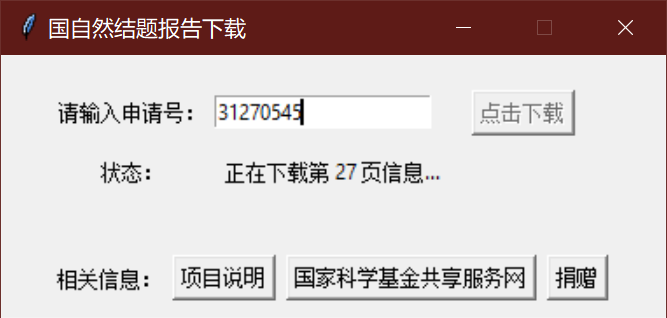
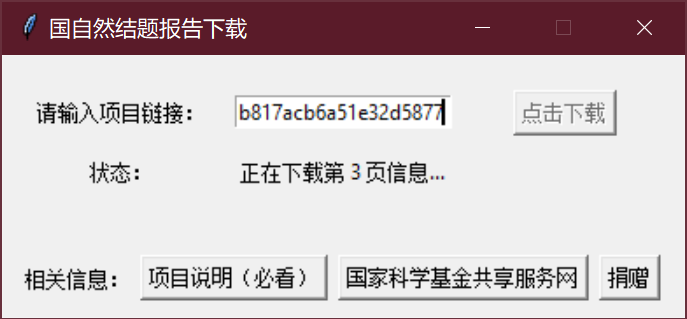
修复页面改版
closed: https://github.com/Rhilip/NSFC_conclusion_downloader/issues/18

diff --git a/nsfc_downloader.py b/nsfc_downloader.py
@@ -10,13 +10,15 @@ import requests
 __VERSION__ = 'v0.1.0'
 __AUTHOR__ = 'Rhilip'
 
+USER_AGENT = 'Mozilla/5.0 (Windows NT 10.0; Win64; x64) AppleWebKit/537.36 (KHTML, like Gecko) Chrome/87.0.4280.88 Safari/537.36 Edg/87.0.664.66'
+
 
 def arg_parser():
     parser = argparse.ArgumentParser(
         description='A tool to Download PDF format conclusion from http://output.nsfc.gov.cn/'
     )
     parser.add_argument('--version', '-v', action='version', version=__VERSION__)
-    parser.add_argument('--ratify', '-r', help='The ratify id of the project you want to download', required=True)
+    parser.add_argument('--ratify', '-r', help='The conclusionProject link of the project you want to download', required=True)
     parser.add_argument('--tmp_path', '-t', default='./tmp', help='The path you want to save tmp file')
     parser.add_argument('--out_path', '-o', default='./output', help='The path you want to save output PDF file')
     parser.add_argument('--no-debug', dest='debug', action='store_false', help='Disable The debug mode')
@@ -82,6 +84,14 @@ class NsfcDownloader:
         self.download_finish = False
         self.download_stats = {}
 
+    @staticmethod
+    def get_hashed_ratify_from_uri(url) -> str:
+        pat = re.match(r'https?://output\.nsfc\.gov\.cn/conclusionProject/([0-9a-f]{32})', url)
+        if pat:
+            return pat.group(1)
+
+        return ''
+
     def get_ratify_info_from_nsfc(self, ratify) -> dict:
         """
         从官网获取信息
@@ -128,24 +138,35 @@ class NsfcDownloader:
         img_files_list = []
         img_bytes_list = []
 
-        ratify_prefix = ratify[:2]
-
         self.i = 1
-        while True:
+        should_loop = True
+        while should_loop:
             tmp_file = os.path.join(self.tmp_path, '{}_{}.png'.format(ratify, self.i))
             if os.path.exists(tmp_file):
                 content = open(tmp_file, 'rb').read()
             else:
-                req_url = "http://output.nsfc.gov.cn/report/{}/{}_{}.png".format(ratify_prefix, ratify, self.i)
-                print('正在请求页面 {}'.format(req_url))
-                r = requests.get(req_url, timeout=10)
-                if r.status_code == 404:
-                    break
+                # 请求接口
+                r = requests.post('http://output.nsfc.gov.cn/baseQuery/data/completeProjectReport', data={
+                    'id': ratify,
+                    'index': self.i
+                }, headers={
+                    'User-Agent': USER_AGENT,
+                })
+                rj = r.json()
+
+                req_url = "http://output.nsfc.gov.cn{}".format(rj['data']['url'])
+                print('正在请求第{}页 {}'.format(self.i, req_url))
+
+                r = requests.get(req_url, timeout=10, headers={
+                    'User-Agent': USER_AGENT,
+                })
                 content = r.content
 
                 if self.debug:
                     with open(tmp_file, 'wb') as tmp_f:
                         tmp_f.write(r.content)
+
+                should_loop = rj['data'].get('hasnext', False)
 
             img_files_list.append(tmp_file)
             img_bytes_list.append(content)
@@ -155,41 +176,50 @@ class NsfcDownloader:
 
         return img_files_list, img_bytes_list
 
-    def download(self, ratify):
+    def download(self, url):
         status = {'success': False, 'msg': ''}
-        print('开始获取项目信息，项目编号： {}'.format(ratify))
 
-        ratify_info = self.get_ratify_info(ratify)
-        if ratify_info.get('code') != 200 or 'data' not in ratify_info:
-            status['msg'] = '项目可能不存在，请重新检查网页 http://output.nsfc.gov.cn/conclusionProject/{} 显示'.format(ratify)
-        else:
-            project_name = ratify_info['data'].get('projectName', '')
-            status['path'] = os.path.join(self.out_path, clean_filename('{} {}.pdf'.format(ratify, project_name)))
+        # 重写ratify参数
+        ratify = self.get_hashed_ratify_from_uri(url)
 
-            if os.path.exists(status['path']):
-                status['success'] = True
-                status['msg'] = 'PDF已存在，请打开 `{}`。'.format(status['path'])
+        if ratify:
+            print('开始获取项目信息，项目编号： {}'.format(ratify))
+
+            ratify_info = self.get_ratify_info(ratify)
+            if ratify_info.get('code') != 200 or 'data' not in ratify_info:
+                status['msg'] = '项目可能不存在，请重新检查网页 http://output.nsfc.gov.cn/conclusionProject/{} 显示'.format(ratify)
             else:
-                try:
-                    print('开始下载 {} {}'.format(ratify, project_name))
-                    img_files_list, img_bytes_list = self.download_loop(ratify)
-                    print('下载完成 {} {}'.format(ratify, project_name))
+                project_name = ratify_info['data'].get('projectName', '')
+                ratify_no = ratify_info['data'].get('ratifyNo', '')
+                status['path'] = os.path.join(self.out_path,
+                                              clean_filename('{} {}.pdf'.format(ratify_no, project_name)))
 
-                    if len(img_bytes_list) > 0:
-                        print('正在组合PDF {}'.format(status['path']))
-                        pdf = img2pdf.convert(img_bytes_list)
-                        with open(status['path'], "wb") as file_:
-                            file_.write(pdf)
-                            status['success'] = True
+                if os.path.exists(status['path']):
+                    status['success'] = True
+                    status['msg'] = 'PDF已存在，请打开 `{}`。'.format(status['path'])
+                else:
+                    try:
+                        print('开始下载 {}({}) {}'.format(ratify_no, ratify, project_name))
+                        img_files_list, img_bytes_list = self.download_loop(ratify)
+                        print('下载完成 {}({}) {}'.format(ratify_no, ratify, project_name))
 
-                        if self.debug:
-                            print('移除临时文件')
-                            for f in img_files_list:
-                                os.remove(f)
-                    else:
-                        status['msg'] = '下载过程出现问题，未获得有效图片。'
-                except Exception as e:
-                    status['msg'] = '内部错误： {}'.format(e)
+                        if len(img_bytes_list) > 0:
+                            print('正在组合PDF {}'.format(status['path']))
+                            pdf = img2pdf.convert(img_bytes_list)
+                            with open(status['path'], "wb") as file_:
+                                file_.write(pdf)
+                                status['success'] = True
+
+                            if self.debug:
+                                print('移除临时文件')
+                                for f in img_files_list:
+                                    os.remove(f)
+                        else:
+                            status['msg'] = '下载过程出现问题，未获得有效图片。'
+                    except Exception as e:
+                        status['msg'] = '内部错误： {}'.format(e)
+        else:
+            status['msg'] = '输入链接格式错误'
 
         if status['msg']:
             print(status['msg'])
@@ -202,3 +232,9 @@ if __name__ == '__main__':
     args = arg_parser()
     downloader = NsfcDownloader(args.out_path, args.tmp_path)
     downloader.download(args.ratify)
+
+    for ratify in ['23456',
+                   '2345',
+                   'U12345',
+                   '2345678']:
+        downloader.download(ratify)

diff --git a/gui.py b/gui.py
@@ -9,7 +9,7 @@ if __name__ == '__main__':
     # 定义窗口
     window = tk.Tk()
     window.title('国自然结题报告下载')
-    window.geometry('380x150')
+    window.geometry('390x150')
     window.resizable(0, 0)
 
     # 变量
@@ -22,7 +22,7 @@ if __name__ == '__main__':
     frm_main.pack(side='top')
 
     # 第一栏
-    tk.Label(frm_main, text="请输入申请号：").grid(row=1, column=1)  # 输入提示
+    tk.Label(frm_main, text="请输入项目链接：").grid(row=1, column=1)  # 输入提示
     input_ratify = tk.Entry(frm_main)
     input_ratify.focus()
     input_ratify.grid(row=1, column=2)  # 输入框
@@ -35,41 +35,35 @@ if __name__ == '__main__':
         input_button.config(state='disabled')
 
         # 检查申请号信息
-        ratify = input_ratify.get()
-        if len(ratify) == 0:
-            tk.messagebox.showerror(title='错误', message='请输入有效的国自然项目申请号')
+        url = input_ratify.get()
+        if len(url) == 0:
+            tk.messagebox.showerror(title='错误', message='请输入有效的国自然项目链接')
             return
 
         # 重用 nsfc_downloader
+        state.set('开始获取项目信息...')
         nsfc_downloader.clear_state()
 
-        # 在GUI里面重新实现一边download方法，因为要实现状态输出
-        state.set('开始获取项目信息...')
-        ratify_info = nsfc_downloader.get_ratify_info(ratify)
-        if not ratify_info['success']:
-            state.set('从国自然官网获取信息失败，错误原因： {}'.format(ratify_info['msg']))
-        else:
-            state.set('开始下载项目结题报告信息，请耐心等待...')
-            download_thread = threading.Thread(target=nsfc_downloader.download, args=(ratify,))
-            download_thread.start()
+        download_thread = threading.Thread(target=nsfc_downloader.download, args=(url,))
+        download_thread.start()
 
-            def check_thread():
-                if download_thread.is_alive():
-                    state.set('正在下载第 {} 页信息...'.format(nsfc_downloader.i))
-                    window.after(1000, check_thread)
-                    pass
+        def check_thread():
+            if download_thread.is_alive():
+                state.set('正在下载第 {} 页信息...'.format(nsfc_downloader.i))
+                window.after(1000, check_thread)
+                pass
+            else:
+                download_stats = nsfc_downloader.download_stats
+                if download_stats['success']:
+                    state.set('已下载完成。')
+                    nsfc.open_filepath(download_stats['path'])
                 else:
-                    download_stats = nsfc_downloader.download_stats
-                    if download_stats['success']:
-                        state.set('已下载完成。')
-                        nsfc.open_filepath(download_stats['path'])
-                    else:
-                        state.set('下载失败，原因： {}'.format(download_stats['msg']))
+                    state.set('下载失败，原因： {}'.format(download_stats['msg']))
 
-                    # 恢复按钮状态
-                    input_button.config(state='normal')
+                # 恢复按钮状态
+                input_button.config(state='normal')
 
-            window.after(1000, check_thread)
+        window.after(1000, check_thread)
 
 
     # 输入框确定按钮
@@ -87,7 +81,7 @@ if __name__ == '__main__':
     frm_info.grid(row=3, column=1, columnspan=3)
 
     tk.Label(frm_info, text="相关信息：").grid(row=1, column=1, pady=10)  # 输入提示
-    tk.Button(frm_info, text="项目说明",
+    tk.Button(frm_info, text="项目说明（必看）",
               command=lambda: webbrowser.open('https://github.com/Rhilip/NSFC_conclusion_downloader')
               ).grid(row=1, column=2, padx=3)
     tk.Button(frm_info, text="国家科学基金共享服务网",

diff --git a/README.md b/README.md
@@ -11,15 +11,20 @@
 
 ## 使用说明
 
+> **重要更新**
+> - 2020.12.30: 由于科学基金共享服务网 改版导致不能直接通过申请号进行下载，
+    本项目现使用网址进行下载，请重新阅读使用说明。 （[issue#18](ihttps://github.com/Rhilip/NSFC_conclusion_downloader/issues/18)）
+
 ### 使用GUI
 
 为方便没编程基础的同学使用本脚本，特使用 `tkinter` 和 `pyinstaller` 编译出windows下的可执行程序。请按以下步骤使用：
 
 1. 至 [Release 页面](https://github.com/Rhilip/NSFC_conclusion_downloader/releases) 下载 `nsfc_conclusion_downloader.zip`，并解压。
-2. 运行 `nsfc_downloader.exe`，并输入**申请号信息**，输入完成后点击下载按钮。
-3. 等待软件下载完成，自动打开生成的PDF文件。
-
-![](./resource/gui_usage.png)
+2. 在 [结题项目检索](http://output.nsfc.gov.cn/projectQuery) 页面检索得到对应项目，并复制相关项目网址
+   ![](./resource/copy_url.png)
+3. 运行 `nsfc_downloader.exe`，并输入**项目链接**，输入完成后点击下载按钮。
+   ![](./resource/gui_usage.png)
+4. 等待软件下载完成，自动打开生成的PDF文件。
 
 ### 使用Python脚本
 
@@ -35,7 +40,7 @@
 3. 运行项目，其中 `{ratifyNo}` 替换成你所需要的项目 **批准号**
 
     ```shell script
-    python3 nsfc_downloader.py --ratify 31270544
+    python3 nsfc_downloader.py --ratify http://output.nsfc.gov.cn/conclusionProject/cc63ee32edd56a630ac09226083ebff4
     ```
     
     你也可以在其他项目中使用如下示例代码进行批量下载
@@ -45,7 +50,8 @@
     
     downloader = NsfcDownloader(out_path, tmp_path)
     
-    for ratify in ['23456','2345','U12345','2345678']:
+    for ratify in ['http://output.nsfc.gov.cn/conclusionProject/cc63ee32edd56a630ac09226083ebff4',
+                   'http://output.nsfc.gov.cn/conclusionProject/ed3f850f0fc1db817acb6a51e32d5877']:
         downloader.download(ratify)
     ```
     
